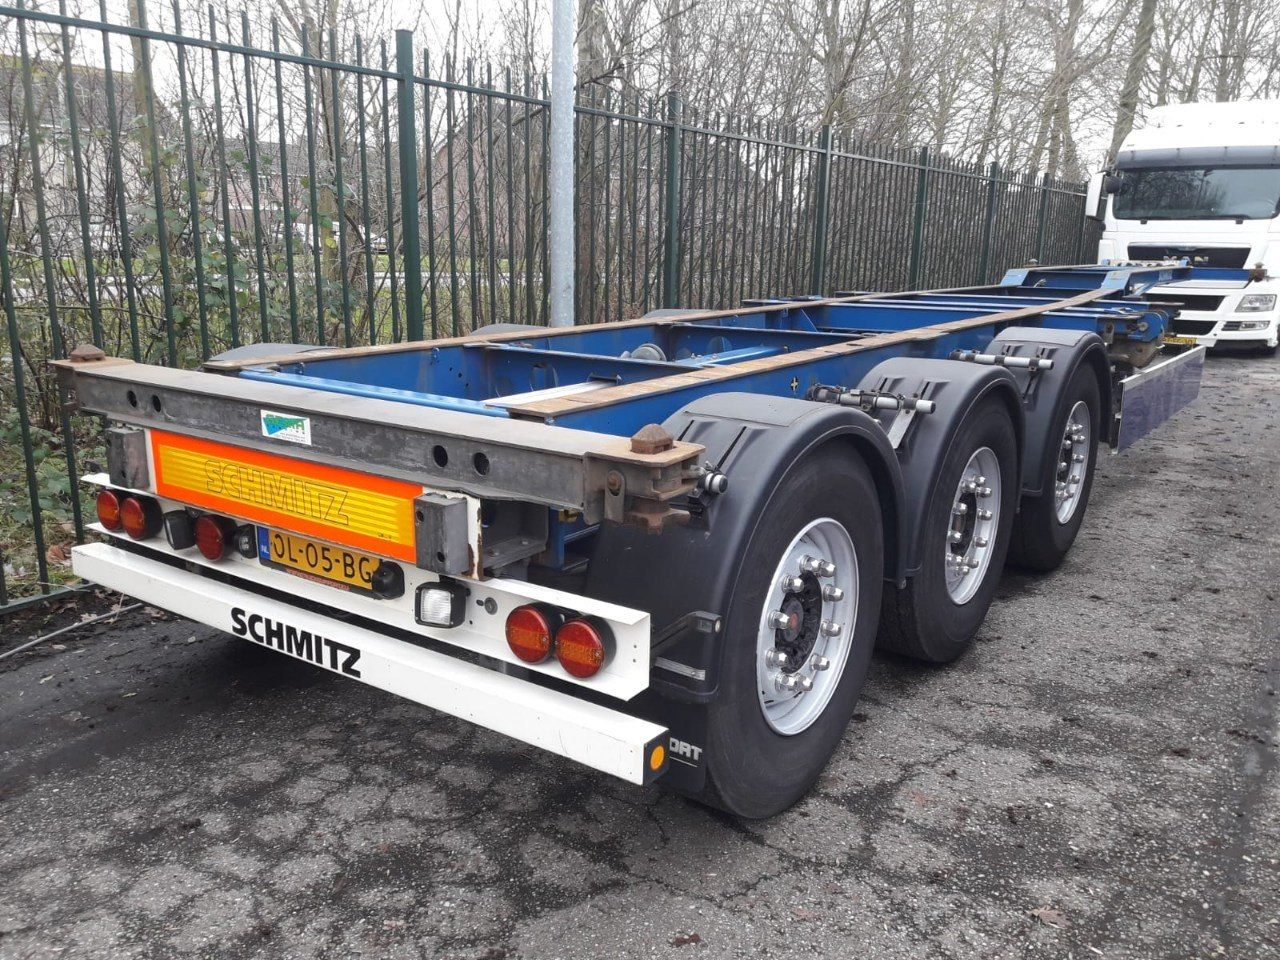
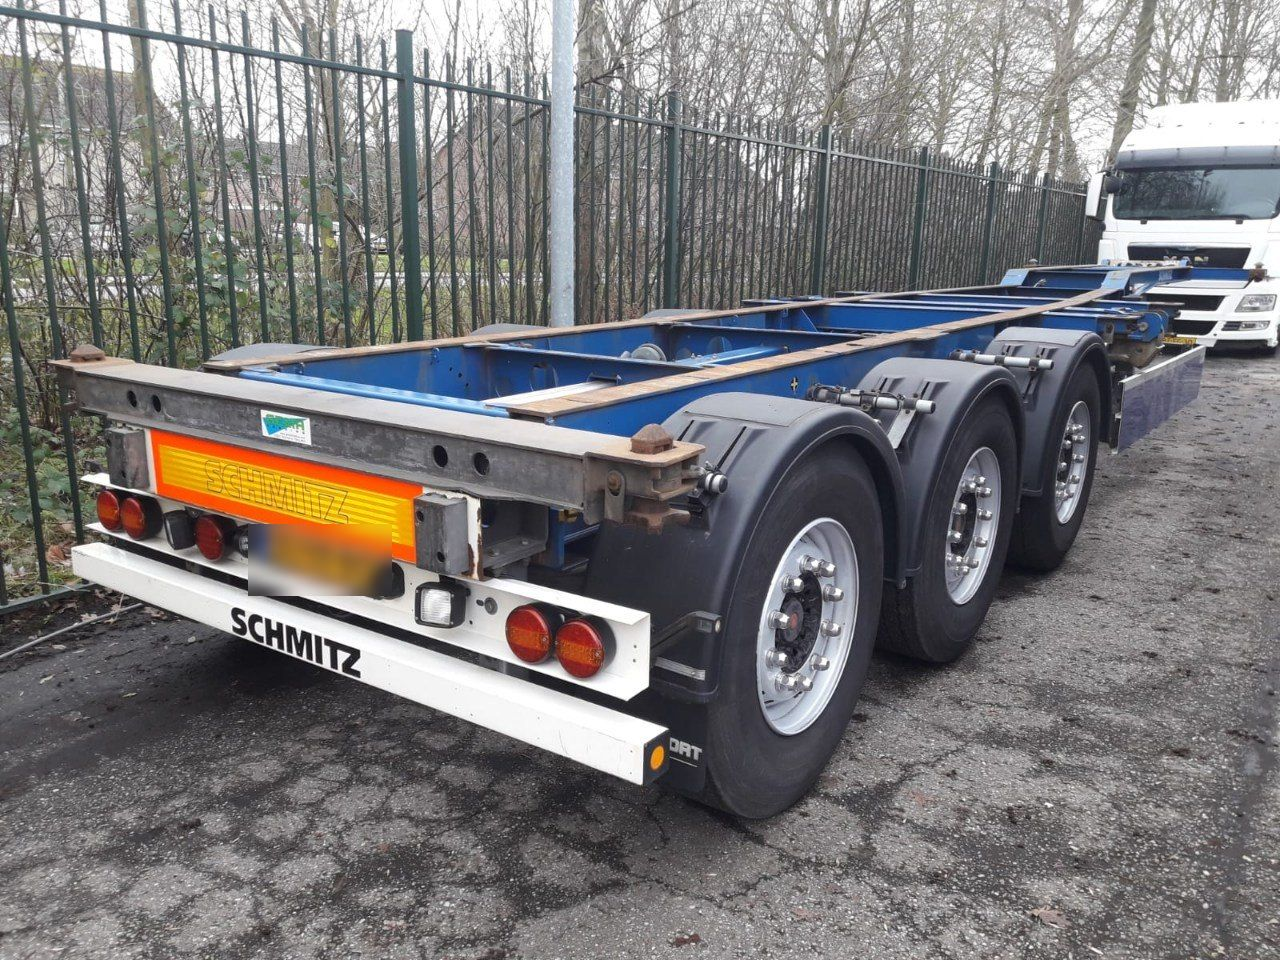
Blur licence plates and add the last client photos
- Blur every visible licence plate (and trailer ID numbers) at the
  client's request, including photos already on the site
- Add five more photos: loaded transporter, van inside a container,
  container being loaded, engines loaded at night, red container chassis
- Hero background is now the loaded transporter photo (no haulier
  branding visible, so the mirroring workaround is removed)
- Each page hero uses its own photo

Claude-Session: https://claude.ai/code/session_016QzsAobqzqc4bkXgWFmSNZ

Changed region(s): [[0.1875, 0.5312, 0.3125, 0.625]]

diff --git a/gallery.html b/gallery.html
@@ -14,7 +14,7 @@
 <link rel="preconnect" href="https://fonts.googleapis.com">
 <link rel="preconnect" href="https://fonts.gstatic.com" crossorigin>
 <link rel="stylesheet" href="https://fonts.googleapis.com/css2?family=Fraunces:ital,opsz,wght@0,9..144,300..700;1,9..144,300..600&amp;family=Inter:wght@400;500;600;700&amp;display=swap">
-<link rel="stylesheet" href="assets/style.css?v=f7c433495a">
+<link rel="stylesheet" href="assets/style.css?v=17382410b4">
 <script>document.documentElement.className += ' js';</script>
 </head>
 <body>
@@ -67,7 +67,7 @@
 </div>
 <main id="main">
 <section class="page-hero">
-  <div class="bg" style="background-image:url('assets/img/container-loading.jpg');background-position:center"></div>
+  <div class="bg" style="background-image:url('assets/img/container-van-loading.jpg');background-position:center 45%"></div>
   <svg class="route-line" viewBox="0 0 1440 90" preserveAspectRatio="none" aria-hidden="true"><path vector-effect="non-scaling-stroke" d="M-10 72 C 260 72, 420 18, 720 30 S 1160 76, 1450 22"/></svg>
   <div class="container">
     <nav class="breadcrumb" aria-label="Breadcrumb"><a href="index.html">Home</a><span aria-hidden="true">/</span><span aria-current="page">Gallery</span></nav>
@@ -125,6 +125,26 @@
       <figure data-cat="vehicles" data-reveal>
         <a href="assets/img/van-mercedes.jpg" data-lightbox data-caption="Mercedes-Benz van"><img src="assets/img/van-mercedes.jpg" alt="Blue Mercedes-Benz van ready for export" width="1280" height="719" loading="lazy" decoding="async"></a>
         <figcaption><strong>Mercedes-Benz van</strong><span>Vans &amp; light vehicles</span></figcaption>
+      </figure>
+      <figure data-cat="vehicles" data-reveal>
+        <a href="assets/img/transporter-loaded.jpg" data-lightbox data-caption="Loaded for export"><img src="assets/img/transporter-loaded.jpg" alt="Transporter loaded with a van and a truck for export" width="1280" height="720" loading="lazy" decoding="async"></a>
+        <figcaption><strong>Loaded for export</strong><span>Van and truck on a transporter</span></figcaption>
+      </figure>
+      <figure data-cat="containers" data-reveal>
+        <a href="assets/img/container-van-loading.jpg" data-lightbox data-caption="Van in a container"><img src="assets/img/container-van-loading.jpg" alt="A van loaded inside a shipping container" width="1280" height="719" loading="lazy" decoding="async"></a>
+        <figcaption><strong>Van in a container</strong><span>Packed for sea freight</span></figcaption>
+      </figure>
+      <figure data-cat="containers" data-reveal>
+        <a href="assets/img/container-yard-loading.jpg" data-lightbox data-caption="Loading the container"><img src="assets/img/container-yard-loading.jpg" alt="Loading cargo into an open container" width="720" height="1280" loading="lazy" decoding="async"></a>
+        <figcaption><strong>Loading the container</strong><span>Cargo going in</span></figcaption>
+      </figure>
+      <figure data-cat="machinery" data-reveal>
+        <a href="assets/img/container-engines-night.jpg" data-lightbox data-caption="Engines"><img src="assets/img/container-engines-night.jpg" alt="Loading engines into a container at night" width="719" height="1280" loading="lazy" decoding="async"></a>
+        <figcaption><strong>Engines</strong><span>Loaded at night</span></figcaption>
+      </figure>
+      <figure data-cat="containers" data-reveal>
+        <a href="assets/img/chassis-van-moer.jpg" data-lightbox data-caption="Container chassis"><img src="assets/img/chassis-van-moer.jpg" alt="Red tri-axle container chassis in a yard" width="1280" height="960" loading="lazy" decoding="async"></a>
+        <figcaption><strong>Container chassis</strong><span>Trailers</span></figcaption>
       </figure>
     </div>
   </div>

diff --git a/services.html b/services.html
@@ -14,7 +14,7 @@
 <link rel="preconnect" href="https://fonts.googleapis.com">
 <link rel="preconnect" href="https://fonts.gstatic.com" crossorigin>
 <link rel="stylesheet" href="https://fonts.googleapis.com/css2?family=Fraunces:ital,opsz,wght@0,9..144,300..700;1,9..144,300..600&amp;family=Inter:wght@400;500;600;700&amp;display=swap">
-<link rel="stylesheet" href="assets/style.css?v=f7c433495a">
+<link rel="stylesheet" href="assets/style.css?v=17382410b4">
 <script>document.documentElement.className += ' js';</script>
 </head>
 <body>
@@ -67,7 +67,7 @@
 </div>
 <main id="main">
 <section class="page-hero">
-  <div class="bg" style="background-image:url('assets/img/truck-volvo-fh.jpg');background-position:center 35%"></div>
+  <div class="bg" style="background-image:url('assets/img/transporter-loaded.jpg');background-position:center 55%"></div>
   <svg class="route-line" viewBox="0 0 1440 90" preserveAspectRatio="none" aria-hidden="true"><path vector-effect="non-scaling-stroke" d="M-10 72 C 260 72, 420 18, 720 30 S 1160 76, 1450 22"/></svg>
   <div class="container">
     <nav class="breadcrumb" aria-label="Breadcrumb"><a href="index.html">Home</a><span aria-hidden="true">/</span><span aria-current="page">Services</span></nav>
@@ -85,7 +85,7 @@
     </div>
     <div>
       <div class="feature" id="vehicles" data-reveal>
-        <figure class="feature-img"><img src="assets/img/car-transporter.jpg" alt="Car transporter loaded with two trucks for export" width="1280" height="720" loading="lazy" decoding="async"></figure>
+        <figure class="feature-img"><img src="assets/img/transporter-loaded.jpg" alt="Transporter loaded with a van and a truck for export" width="1280" height="720" loading="lazy" decoding="async"></figure>
         <div>
           <span class="feature-num">01</span>
           <h3>Vehicles &amp; vehicle parts</h3>
@@ -121,7 +121,7 @@
         </div>
       </div>
       <div class="feature" id="heavy" data-reveal>
-        <figure class="feature-img"><img src="assets/img/container-chassis-schmitz.jpg" alt="Blue Schmitz container chassis trailer" width="1280" height="960" loading="lazy" decoding="async"></figure>
+        <figure class="feature-img"><img src="assets/img/chassis-van-moer.jpg" alt="Red tri-axle container chassis in a yard" width="1280" height="960" loading="lazy" decoding="async"></figure>
         <div>
           <span class="feature-num">05</span>
           <h3>Oversized &amp; heavy cargo</h3>

diff --git a/index.html b/index.html
@@ -14,7 +14,7 @@
 <link rel="preconnect" href="https://fonts.googleapis.com">
 <link rel="preconnect" href="https://fonts.gstatic.com" crossorigin>
 <link rel="stylesheet" href="https://fonts.googleapis.com/css2?family=Fraunces:ital,opsz,wght@0,9..144,300..700;1,9..144,300..600&amp;family=Inter:wght@400;500;600;700&amp;display=swap">
-<link rel="stylesheet" href="assets/style.css?v=f7c433495a">
+<link rel="stylesheet" href="assets/style.css?v=17382410b4">
 <script>document.documentElement.className += ' js';</script>
 </head>
 <body>
@@ -71,7 +71,7 @@
   <!-- Live background: the photo drifts slowly (Ken Burns). To use a real video instead,
        put an MP4 in assets/video/ and set data-video="assets/video/hero.mp4" below. -->
   <div class="hero-media" data-video="" aria-hidden="true">
-    <img class="hero-photo" src="assets/img/car-transporter.jpg" alt="" width="1280" height="720" fetchpriority="high">
+    <img class="hero-photo" src="assets/img/transporter-loaded.jpg" alt="" width="1280" height="720" fetchpriority="high">
   </div>
   <div class="hero-aurora" aria-hidden="true"></div>
   <div class="hero-sweep" aria-hidden="true"></div>
@@ -135,7 +135,7 @@
     </div>
     <div class="cargo-grid">
       <a class="cargo-card" href="services.html#vehicles" data-reveal>
-        <div class="cargo-img"><img src="assets/img/car-transporter.jpg" alt="Car transporter loaded with two trucks for export" width="1280" height="720" loading="lazy" decoding="async"></div>
+        <div class="cargo-img"><img src="assets/img/transporter-loaded.jpg" alt="Transporter loaded with a van and a truck for export" width="1280" height="720" loading="lazy" decoding="async"></div>
         <span class="cargo-idx">01 &middot; Vehicles</span>
         <h3>Vehicles &amp; parts</h3>
         <p>Cars, trucks and vehicle parts shipped with full documentation support.</p>

diff --git a/assets/style.css b/assets/style.css
@@ -311,8 +311,7 @@ body.menu-open .mobile-menu { opacity: 1; visibility: visible; transition: opaci
 .hero > .container { width: 100%; }
 .hero-media { position: absolute; inset: -12% 0 -12% 0; z-index: -3; overflow: hidden; transform: translate3d(0, var(--parallax, 0px), 0); will-change: transform; }
 .hero-photo, .hero-video { position: absolute; inset: 0; width: 100%; height: 100%; object-fit: cover; object-position: 30% 55%; }
-/* Mirrored so the loaded trucks sit behind the globe and the haulier's cab sits under the dark text side */
-.hero-photo { scale: -1 1; object-position: 15% 55%; transform-origin: 60% 60%; animation: kenburns 28s ease-in-out infinite alternate; filter: saturate(.8) contrast(1.08) brightness(.9); }
+.hero-photo { object-position: 40% 60%; transform-origin: 60% 60%; animation: kenburns 28s ease-in-out infinite alternate; filter: saturate(.8) contrast(1.08) brightness(.9); }
 @keyframes kenburns { from { transform: scale(1.06) translate3d(1.5%, 0, 0); } to { transform: scale(1.2) translate3d(-2.5%, -1.5%, 0); } }
 .hero-video { opacity: 0; transition: opacity 1.2s var(--ease); }
 .hero-video.is-playing { opacity: 1; }
@@ -978,7 +977,7 @@ input[type="range"]::-moz-range-thumb { width: 18px; height: 18px; border-radius
   .hero-stats > div:nth-child(n+3) { border-top: 1px solid var(--line-light); margin-top: 24px; }
   .hero-wa { margin-left: 0; }
   .hero-media::after { background: linear-gradient(180deg, rgba(7, 21, 38, .9) 0%, rgba(8, 25, 44, .82) 45%, rgba(11, 31, 53, .7) 70%, rgba(7, 21, 38, .95) 100%); }
-  .hero-photo { object-position: 30% 50%; }
+  .hero-photo { object-position: 35% 50%; }
   .cargo-grid { grid-template-columns: 1fr 1fr; gap: 28px 16px; }
   .cargo-img { aspect-ratio: 4 / 5; }
   .process { grid-template-columns: 1fr; }

diff --git a/book.html b/book.html
@@ -14,7 +14,7 @@
 <link rel="preconnect" href="https://fonts.googleapis.com">
 <link rel="preconnect" href="https://fonts.gstatic.com" crossorigin>
 <link rel="stylesheet" href="https://fonts.googleapis.com/css2?family=Fraunces:ital,opsz,wght@0,9..144,300..700;1,9..144,300..600&amp;family=Inter:wght@400;500;600;700&amp;display=swap">
-<link rel="stylesheet" href="assets/style.css?v=f7c433495a">
+<link rel="stylesheet" href="assets/style.css?v=17382410b4">
 <script>document.documentElement.className += ' js';</script>
 </head>
 <body>
@@ -67,7 +67,7 @@
 </div>
 <main id="main">
 <section class="page-hero">
-  <div class="bg" style="background-image:url('assets/img/container-chassis-schmitz.jpg');background-position:center 60%"></div>
+  <div class="bg" style="background-image:url('assets/img/container-yard-loading.jpg');background-position:center 55%"></div>
   <svg class="route-line" viewBox="0 0 1440 90" preserveAspectRatio="none" aria-hidden="true"><path vector-effect="non-scaling-stroke" d="M-10 72 C 260 72, 420 18, 720 30 S 1160 76, 1450 22"/></svg>
   <div class="container">
     <nav class="breadcrumb" aria-label="Breadcrumb"><a href="index.html">Home</a><span aria-hidden="true">/</span><span aria-current="page">Book a Shipment</span></nav>

diff --git a/calculator.html b/calculator.html
@@ -14,7 +14,7 @@
 <link rel="preconnect" href="https://fonts.googleapis.com">
 <link rel="preconnect" href="https://fonts.gstatic.com" crossorigin>
 <link rel="stylesheet" href="https://fonts.googleapis.com/css2?family=Fraunces:ital,opsz,wght@0,9..144,300..700;1,9..144,300..600&amp;family=Inter:wght@400;500;600;700&amp;display=swap">
-<link rel="stylesheet" href="assets/style.css?v=f7c433495a">
+<link rel="stylesheet" href="assets/style.css?v=17382410b4">
 <script>document.documentElement.className += ' js';</script>
 </head>
 <body>
@@ -67,7 +67,7 @@
 </div>
 <main id="main">
 <section class="page-hero">
-  <div class="bg" style="background-image:url('assets/img/tractor-john-deere.jpg');background-position:center 55%"></div>
+  <div class="bg" style="background-image:url('assets/img/tractor-john-deere-3140.jpg');background-position:center 45%"></div>
   <svg class="route-line" viewBox="0 0 1440 90" preserveAspectRatio="none" aria-hidden="true"><path vector-effect="non-scaling-stroke" d="M-10 72 C 260 72, 420 18, 720 30 S 1160 76, 1450 22"/></svg>
   <div class="container">
     <nav class="breadcrumb" aria-label="Breadcrumb"><a href="index.html">Home</a><span aria-hidden="true">/</span><span aria-current="page">Calculator</span></nav>

diff --git a/routes.html b/routes.html
@@ -14,7 +14,7 @@
 <link rel="preconnect" href="https://fonts.googleapis.com">
 <link rel="preconnect" href="https://fonts.gstatic.com" crossorigin>
 <link rel="stylesheet" href="https://fonts.googleapis.com/css2?family=Fraunces:ital,opsz,wght@0,9..144,300..700;1,9..144,300..600&amp;family=Inter:wght@400;500;600;700&amp;display=swap">
-<link rel="stylesheet" href="assets/style.css?v=f7c433495a">
+<link rel="stylesheet" href="assets/style.css?v=17382410b4">
 <script>document.documentElement.className += ' js';</script>
 </head>
 <body>
@@ -67,7 +67,7 @@
 </div>
 <main id="main">
 <section class="page-hero">
-  <div class="bg" style="background-image:url('assets/img/container-chassis-schmitz.jpg');background-position:center 60%"></div>
+  <div class="bg" style="background-image:url('assets/img/container-msc-40ft.jpg');background-position:center 45%"></div>
   <svg class="route-line" viewBox="0 0 1440 90" preserveAspectRatio="none" aria-hidden="true"><path vector-effect="non-scaling-stroke" d="M-10 72 C 260 72, 420 18, 720 30 S 1160 76, 1450 22"/></svg>
   <div class="container">
     <nav class="breadcrumb" aria-label="Breadcrumb"><a href="index.html">Home</a><span aria-hidden="true">/</span><span aria-current="page">Routes</span></nav>

diff --git a/about.html b/about.html
@@ -14,7 +14,7 @@
 <link rel="preconnect" href="https://fonts.googleapis.com">
 <link rel="preconnect" href="https://fonts.gstatic.com" crossorigin>
 <link rel="stylesheet" href="https://fonts.googleapis.com/css2?family=Fraunces:ital,opsz,wght@0,9..144,300..700;1,9..144,300..600&amp;family=Inter:wght@400;500;600;700&amp;display=swap">
-<link rel="stylesheet" href="assets/style.css?v=f7c433495a">
+<link rel="stylesheet" href="assets/style.css?v=17382410b4">
 <script>document.documentElement.className += ' js';</script>
 </head>
 <body>
@@ -67,7 +67,7 @@
 </div>
 <main id="main">
 <section class="page-hero">
-  <div class="bg" style="background-image:url('assets/img/tractor-john-deere.jpg');background-position:center 60%"></div>
+  <div class="bg" style="background-image:url('assets/img/container-engines-night.jpg');background-position:center 40%"></div>
   <svg class="route-line" viewBox="0 0 1440 90" preserveAspectRatio="none" aria-hidden="true"><path vector-effect="non-scaling-stroke" d="M-10 72 C 260 72, 420 18, 720 30 S 1160 76, 1450 22"/></svg>
   <div class="container">
     <nav class="breadcrumb" aria-label="Breadcrumb"><a href="index.html">Home</a><span aria-hidden="true">/</span><span aria-current="page">About</span></nav>

diff --git a/blog.html b/blog.html
@@ -14,7 +14,7 @@
 <link rel="preconnect" href="https://fonts.googleapis.com">
 <link rel="preconnect" href="https://fonts.gstatic.com" crossorigin>
 <link rel="stylesheet" href="https://fonts.googleapis.com/css2?family=Fraunces:ital,opsz,wght@0,9..144,300..700;1,9..144,300..600&amp;family=Inter:wght@400;500;600;700&amp;display=swap">
-<link rel="stylesheet" href="assets/style.css?v=f7c433495a">
+<link rel="stylesheet" href="assets/style.css?v=17382410b4">
 <script>document.documentElement.className += ' js';</script>
 </head>
 <body>
@@ -67,7 +67,7 @@
 </div>
 <main id="main">
 <section class="page-hero">
-  <div class="bg" style="background-image:url('assets/img/car-transporter.jpg');background-position:center 50%"></div>
+  <div class="bg" style="background-image:url('assets/img/chassis-van-moer.jpg');background-position:center 55%"></div>
   <svg class="route-line" viewBox="0 0 1440 90" preserveAspectRatio="none" aria-hidden="true"><path vector-effect="non-scaling-stroke" d="M-10 72 C 260 72, 420 18, 720 30 S 1160 76, 1450 22"/></svg>
   <div class="container">
     <nav class="breadcrumb" aria-label="Breadcrumb"><a href="index.html">Home</a><span aria-hidden="true">/</span><span aria-current="page">News</span></nav>

diff --git a/404.html b/404.html
@@ -14,7 +14,7 @@
 <link rel="preconnect" href="https://fonts.googleapis.com">
 <link rel="preconnect" href="https://fonts.gstatic.com" crossorigin>
 <link rel="stylesheet" href="https://fonts.googleapis.com/css2?family=Fraunces:ital,opsz,wght@0,9..144,300..700;1,9..144,300..600&amp;family=Inter:wght@400;500;600;700&amp;display=swap">
-<link rel="stylesheet" href="assets/style.css?v=f7c433495a">
+<link rel="stylesheet" href="assets/style.css?v=17382410b4">
 <script>document.documentElement.className += ' js';</script>
 </head>
 <body>

diff --git a/contact.html b/contact.html
@@ -14,7 +14,7 @@
 <link rel="preconnect" href="https://fonts.googleapis.com">
 <link rel="preconnect" href="https://fonts.gstatic.com" crossorigin>
 <link rel="stylesheet" href="https://fonts.googleapis.com/css2?family=Fraunces:ital,opsz,wght@0,9..144,300..700;1,9..144,300..600&amp;family=Inter:wght@400;500;600;700&amp;display=swap">
-<link rel="stylesheet" href="assets/style.css?v=f7c433495a">
+<link rel="stylesheet" href="assets/style.css?v=17382410b4">
 <script>document.documentElement.className += ' js';</script>
 </head>
 <body>

diff --git a/faq.html b/faq.html
@@ -14,7 +14,7 @@
 <link rel="preconnect" href="https://fonts.googleapis.com">
 <link rel="preconnect" href="https://fonts.gstatic.com" crossorigin>
 <link rel="stylesheet" href="https://fonts.googleapis.com/css2?family=Fraunces:ital,opsz,wght@0,9..144,300..700;1,9..144,300..600&amp;family=Inter:wght@400;500;600;700&amp;display=swap">
-<link rel="stylesheet" href="assets/style.css?v=f7c433495a">
+<link rel="stylesheet" href="assets/style.css?v=17382410b4">
 <script>document.documentElement.className += ' js';</script>
 </head>
 <body>
